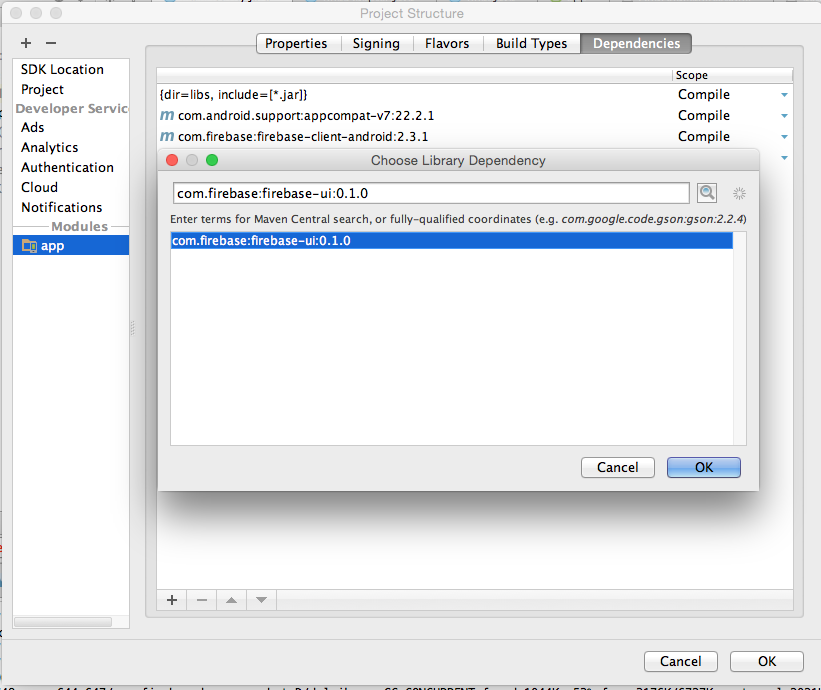
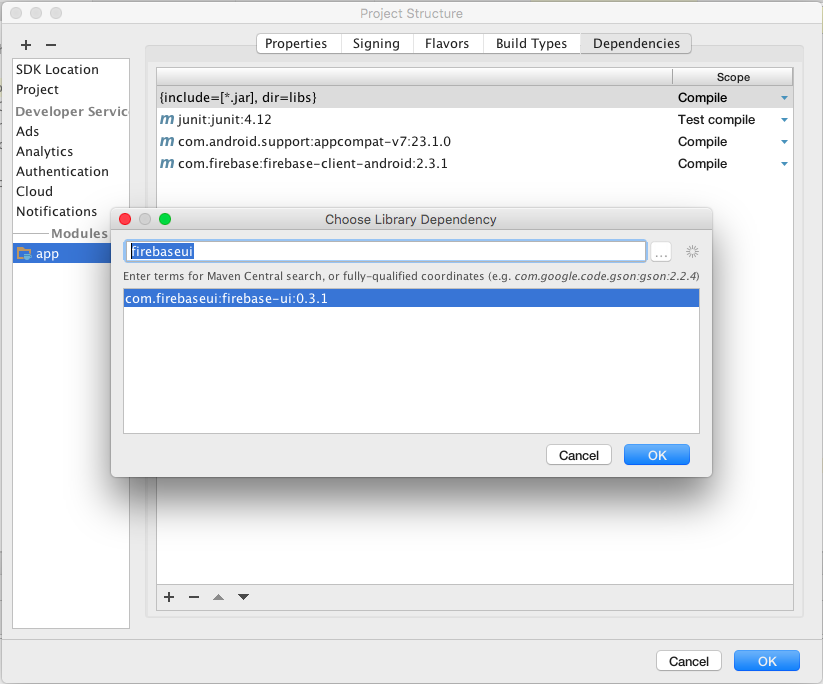
Updated screenshots to com.firebaseui

diff --git a/README.md b/README.md
@@ -26,7 +26,7 @@ You can also add the library dependency directly to your app's gradle.build file
 
 ```
 dependencies {
-    compile 'com.firebaseui:firebase-ui:0.3.0'
+    compile 'com.firebaseui:firebase-ui:0.3.1'
 }
 ```
 
